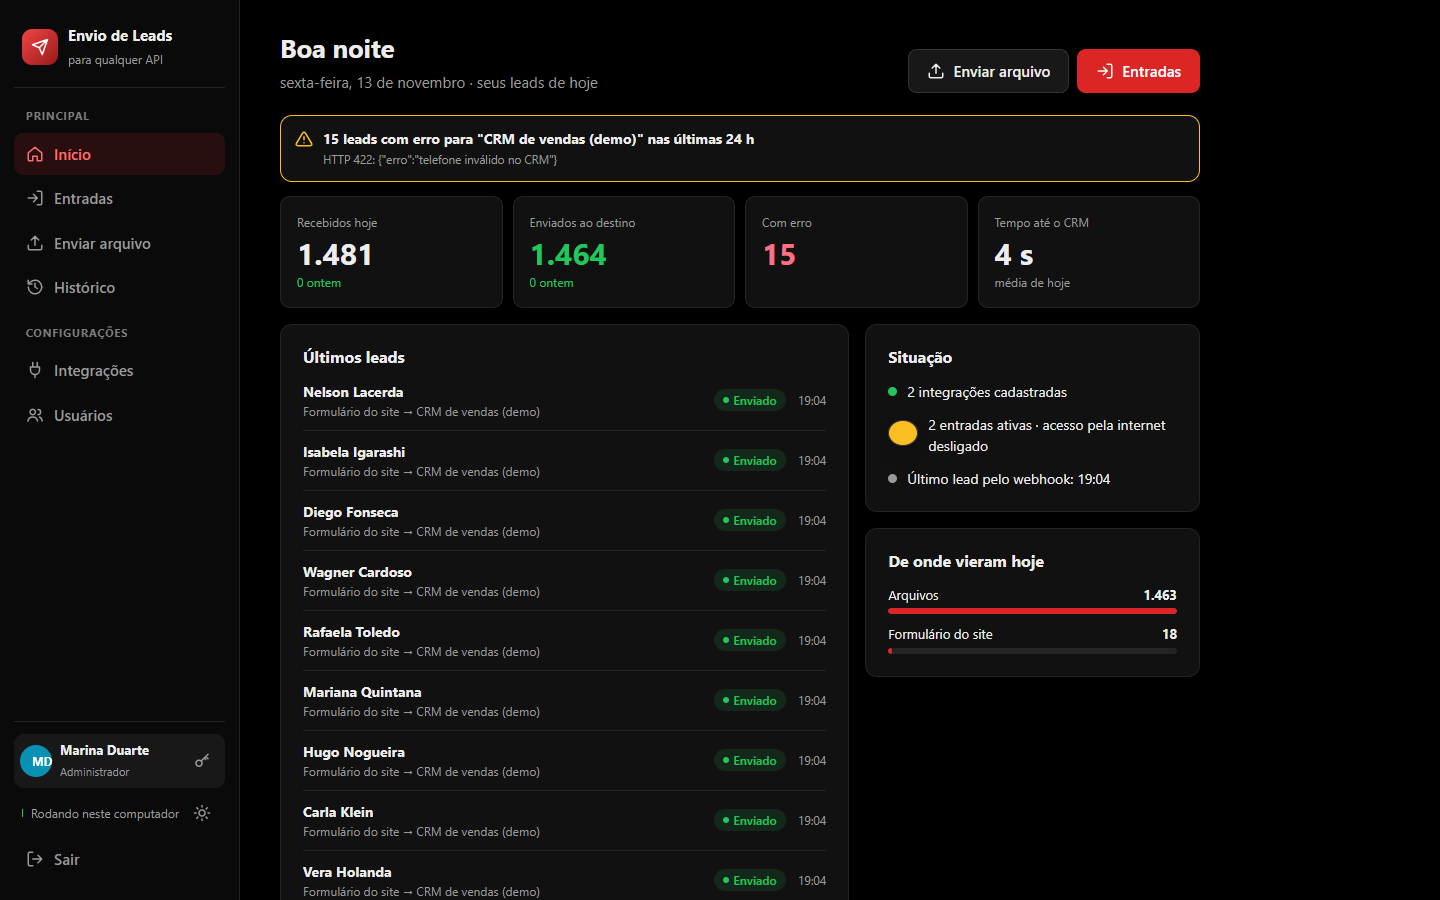
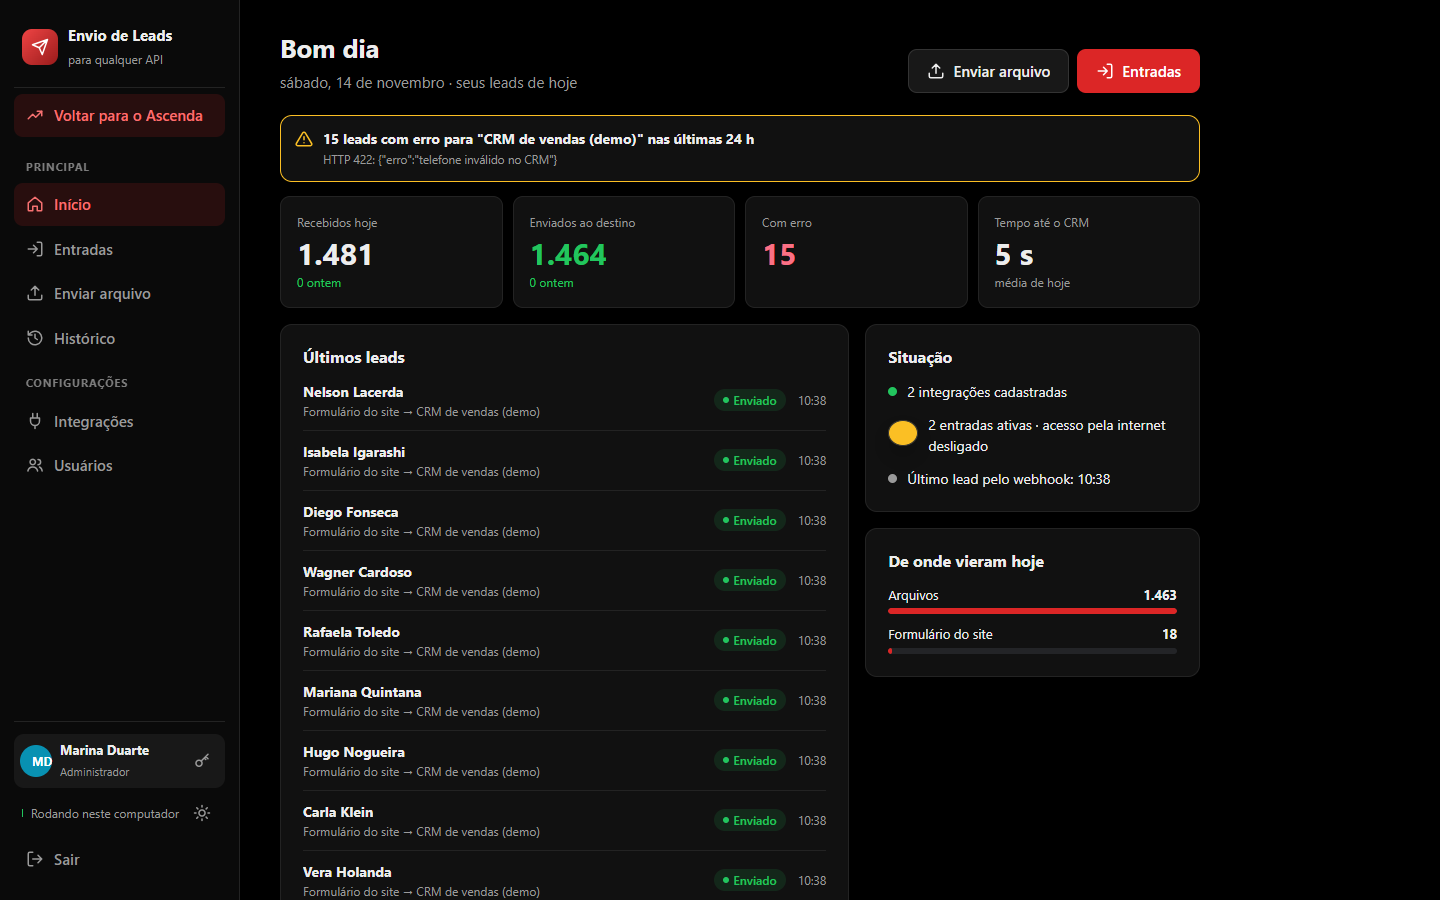
Prints refeitos: botão do Ascenda, conferência de planilha e "1 campo"
- Menu com o botão "Voltar para o Ascenda" (demo rodando ao lado do Ascenda)
- Tela Enviar mostrando a conferência de uma planilha fictícia, com linhas recusadas
- capturar.js espera cada aba carregar antes do print

diff --git a/scripts/capturar.js b/scripts/capturar.js
@@ -1,5 +1,8 @@
 // Tira os prints da vitrine com o Edge escondido (sem extensões, perfil temporário).
 // Uso: node scripts/capturar.js http://localhost:3100
+//
+// Cada print só é tirado quando a tela terminou de carregar. Rode com o Ascenda da demo aberto ao lado
+// (porta 4100) para o botão "Voltar para o Ascenda" aparecer no menu.
 const { spawn } = require("node:child_process");
 const fs = require("node:fs");
 const os = require("node:os");
@@ -12,10 +15,27 @@ const PORTA = 9333;
 const SENHA = "Vitrine-demo-2026!";
 const espera = (ms) => new Promise((ok) => setTimeout(ok, ms));
 
+// Tela Enviar: escolhe o CRM da demo e solta uma planilha fictícia, para aparecer a conferência
+const PREPARAR_ENVIO = `(async () => {
+  const destino = [...document.querySelectorAll("#escolha-integracao input, #escolha-integracao button, #escolha-integracao label")]
+    .find((e) => /CRM de vendas/.test(e.closest("label, button, .escolha")?.innerText || e.innerText || ""));
+  (destino?.closest("label") || destino)?.click();
+  const linhas = ["nome;telefone;email;origem"];
+  const nomes = ["Helena Prado", "Caio Martins", "Lívia Rocha", "Otávio Nunes", "Sofia Campos", "Rafael Teles", "Bianca Leal", "Gustavo Pires"];
+  for (let i = 0; i < 240; i++) linhas.push(nomes[i % 8] + ";" + (i === 7 || i === 91 ? "123" : "4199988" + String(1000 + i).slice(-4)) + ";cliente" + i + "@exemplo.com;" + ["instagram", "fecbook", "site", "indicacao"][i % 4]);
+  const dt = new DataTransfer();
+  dt.items.add(new File([linhas.join("\\r\\n")], "leads-feira-novembro.csv", { type: "text/csv" }));
+  const entrada = document.querySelector("#envio-arquivo");
+  entrada.files = dt.files;
+  entrada.dispatchEvent(new Event("change"));
+  for (let i = 0; i < 40 && document.querySelector("#previa").classList.contains("oculto"); i++) await new Promise((ok) => setTimeout(ok, 250));
+  return !document.querySelector("#previa").classList.contains("oculto");
+})()`;
+
 const ROTEIRO = [
   {
     email: "marina@exemplo.com",
-    telas: [["01-inicio", "inicio"], ["02-enviar", "enviar"], ["03-historico", "historico"], ["04-entradas", "entradas"], ["05-integracoes", "integracoes"]],
+    telas: [["01-inicio", "inicio"], ["02-enviar", "enviar", PREPARAR_ENVIO], ["03-historico", "historico"], ["04-entradas", "entradas"], ["05-integracoes", "integracoes"]],
   },
 ];
 
@@ -52,12 +72,21 @@ async function main() {
       const st = await avaliar(`fetch('/api/login',{method:'POST',headers:{'X-App':'envio-leads','Content-Type':'application/json'},body:JSON.stringify({email:${JSON.stringify(etapa.email)},senha:${JSON.stringify(SENHA)}})}).then(r=>r.status)`);
       if (st !== 200) throw new Error(`login ${etapa.email}: ${st}`);
       await cdp("Page.navigate", { url: `${BASE}/` }); // recarrega já com a sessão
-      await espera(3000);
+      for (let i = 0; i < 60 && !(await avaliar(`!document.querySelector(".layout").classList.contains("oculto") && document.querySelector("#carregando")?.classList.contains("oculto") !== false`)); i++) await espera(250);
+      await espera(1000);
       const quem = await avaliar(`fetch('/api/sessao',{headers:{'X-App':'envio-leads'}}).then(r=>r.ok?r.json():null).then(j=>j&&(j.usuario?.email||j.email))`);
       if (quem !== etapa.email) throw new Error(`sessão errada: esperava ${etapa.email}, veio ${quem}`);
-      for (const [arquivo, tela] of etapa.telas) {
+      for (const [arquivo, tela, preparar] of etapa.telas) {
         await avaliar(`document.querySelector('[data-aba="${tela}"]').click()`);
-        await espera(4500); // carregamento + animações
+        // espera a aba aparecer e terminar de carregar
+        let pronta = false;
+        for (let i = 0; i < 60 && !pronta; i++) {
+          pronta = await avaliar(`(() => { const a = document.querySelector('#aba-${tela}, [data-painel="${tela}"], section.aba-conteudo:not(.oculto)'); return !!a && !a.classList.contains("oculto") && a.innerText.trim().length > 20 && !document.querySelector(".carregando:not(.oculto)"); })()`);
+          if (!pronta) await espera(250);
+        }
+        if (!pronta) throw new Error(`a aba ${tela} não carregou`);
+        if (preparar && !(await avaliar(preparar))) throw new Error(`não consegui preparar a aba ${tela}`);
+        await espera(1500); // números e animações
         const shot = await cdp("Page.captureScreenshot", { format: "png" });
         fs.writeFileSync(path.join(SAIDA, arquivo + ".png"), Buffer.from(shot.result.data, "base64"));
         console.log("ok", arquivo);
